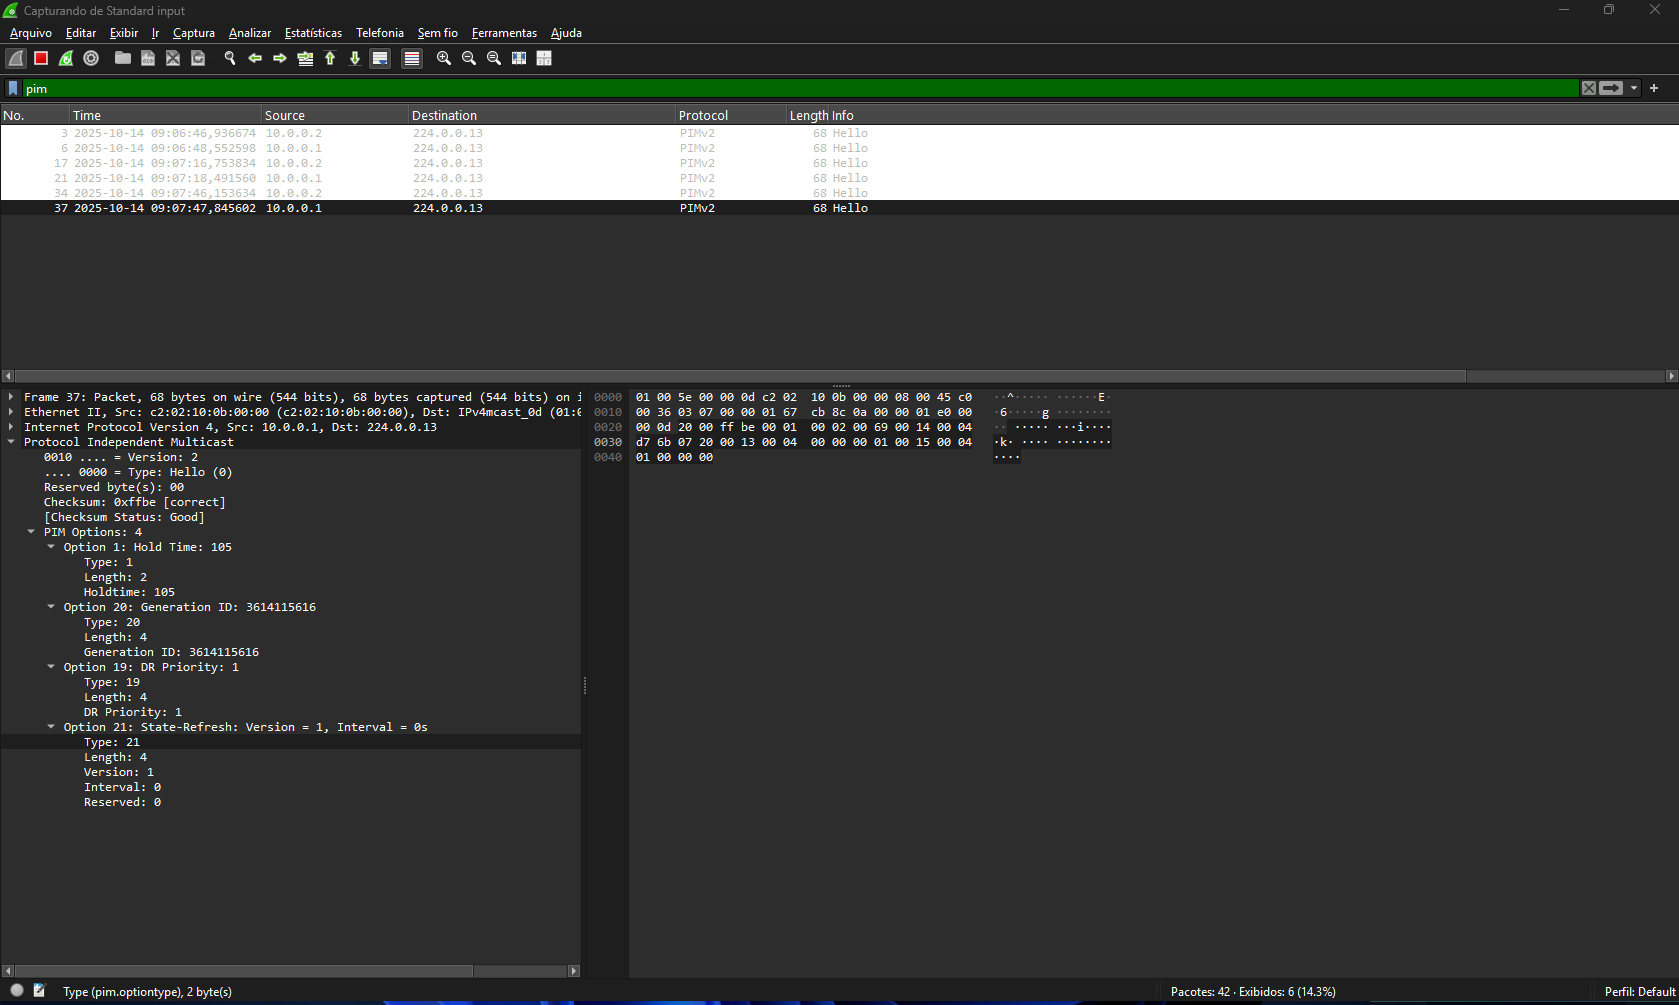
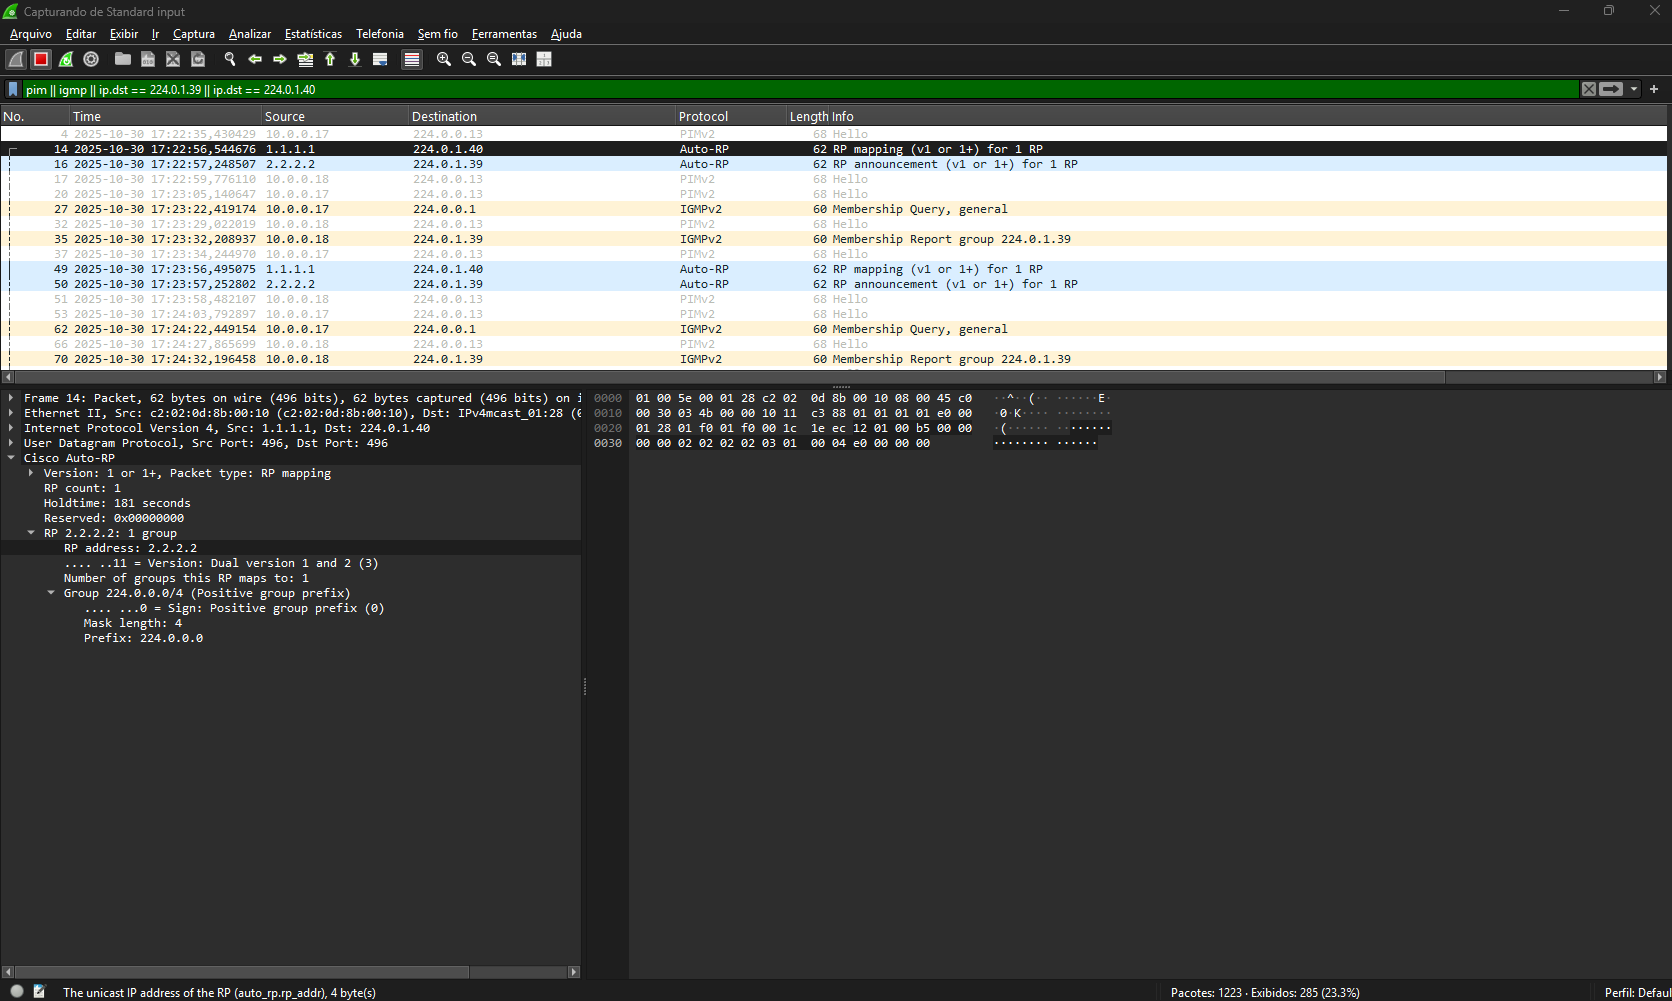
Alterado o README.md

Changed region(s): [[0.0, 0.0, 1.0, 0.8052], [0.0, 0.96, 1.0, 1.0]]

diff --git a/CCNP 350-401 ENCOR/03 - Infrastructure/01 - Multicast/06 - Exemplo Pratico - Pim Sparse Mode/README.md b/CCNP 350-401 ENCOR/03 - Infrastructure/01 - Multicast/06 - Exemplo Pratico - Pim Sparse Mode/README.md
@@ -24,6 +24,7 @@
   - [Ativando o protocolo PIM Sparse Mode](#ativando-o-protocolo-pim-sparse-mode)
     - [🧠 Entendendo a Eleição do Designated Router (DR) no PIM Sparse Mode](#-entendendo-a-eleição-do-designated-router-dr-no-pim-sparse-mode)
     - [💬 Entendendo as Mensagens PIM Hello](#-entendendo-as-mensagens-pim-hello)
+    - [⚙ Configurando o Candidate RP e o Mapping Agent (Auto-RP)](#-configurando-o-candidate-rp-e-o-mapping-agent-auto-rp)
 
 ## 05 - Exemplo Prático - PIM Sparse Mode  
 
@@ -512,4 +513,138 @@ Logo após, a eleição de DR é feita com base nos campos DR Priority e IP Addr
 | Troca de informações entre vizinhos PIM | Hello               | 224.0.0.13 | 1   | Manter vizinhança ativa     |
 | Eleição do DR                           | Hello               | 224.0.0.13 | 1   | Eleger roteador responsável |
 | Detecção de falha de vizinho            | Timeout (sem Hello) | —          | —   | Remover roteador inativo    |
+
+### ⚙ Configurando o Candidate RP e o Mapping Agent (Auto-RP)
+
+Agora que o PIM Sparse Mode está ativo em todas as interfaces, o domínio multicast já está pronto para eleger o Rendezvous Point (RP).  
+Como estamos utilizando o Auto-RP da Cisco, precisamos definir manualmente quem será o Candidate RP (C-RP) e quem atuará como Mapping Agent (MA).  
+
+🔹 Lembrando:  
+  
+- O Candidate RP anuncia-se ao grupo **224.0.1.40** dizendo: “posso ser o RP”.
+- O Mapping Agent escuta esses anúncios e envia o mapeamento final para todos os roteadores via grupo **224.0.1.39**.  
+
+🧩 1⃣ **Escolha dos equipamentos**  
+  
+Para este laboratório:  
+  
+| Função        | Roteador | Loopback usada | Justificativa técnica                                                             |
+|---------------|----------|----------------|-----------------------------------------------------------------------------------|
+| Candidate RP  | R02      | 2.2.2.2        | Está centralizado no domínio PIM, ideal para convergência                         |
+| Mapping Agent | R01      | 1.1.1.1        | Próximo à fonte multicast (Server), reduz latência para distribuição dos anúncios |  
+
+Assim, os roteadores R01 e R02 passam a desempenhar papéis complementares no processo de descoberta do RP.  
+
+🎯 **Sobre as Interfaces Loopback**  
+  
+No PIM Sparse Mode, a loopback pode exercer dois papéis distintos:
+
+- Apenas identificação lógica do roteador — usada como Router-ID ou origem de sessões OSPF/PIM.
+- Endereço lógico de RP (Rendezvous Point) — usada como ponto central da árvore multicast.
+
+👉 **Só o segundo caso exige que o PIM esteja ativo na loopback.**
+
+🧩 **Regra prática (Cisco e CCNP)**
+
+| Função da Loopback                                         | Precisa ativar PIM? | Motivo                                                                                             |
+|------------------------------------------------------------|---------------------|----------------------------------------------------------------------------------------------------|
+| Loopback usada como RP (Candidate RP)                      | ✅ Sim       | O RP precisa participar ativamente do domínio PIM para enviar/receber mensagens Register, Join e Auto-RP  |
+| Loopback usada como Mapping Agent   | ✅ Sim (recomendado)               | Embora o MA só envie anúncios Auto-RP, a interface é usada como origem das mensagens PIM (para 224.0.1.39) |
+| Loopback usada apenas como Router-ID (OSPF, identificação) | ❌ Não              | Ela não participa do encaminhamento multicast nem troca mensagens PIM.                             |
+| Loopback em roteadores comuns (não-RP, não-MA)             | ❌ Não              | Não há função multicast direta associada a ela.                                                   |  
+
+💬 **Em resumo**  
+
+- Ative o PIM-SM nas loopbacks **apenas do Candidate RP e do Mapping Agent**.
+- As demais loopbacks podem ficar sem PIM, já que não fazem parte do processo de descoberta nem da árvore multicast.
+- Isso torna o ambiente mais limpo e evita sobrecarga desnecessária no plano de controle.  
+  
+🧰 2⃣ **Comandos de configuração**  
+  
+➡ No R02 (Candidate RP):  
+
+```ios
+R02(config)#ip pim send-rp-announce loopback0 scope 16 group-list 1
+R02(config)#access-list 1 permit 224.0.0.0 15.255.255.255
+```
+
+🔎 **Explicação:**
+  
+- **send-rp-announce**: indica que o roteador R02 será Candidate RP.
+- **loopback0**: define o endereço 2.2.2.2 como IP de identificação do RP.
+- **scope 16**: limita o alcance dos anúncios ao domínio local PIM.
+- **group-list 1**: especifica o intervalo de grupos multicast para os quais o RP é válido (aqui, todo o range padrão).  
+
+➡ No R01 (Mapping Agent):  
+
+```ios
+R01(config)#int lo0
+R01(config-if)#ip pim sparse-mode
+R01(config-if)#
+*Mar  1 00:18:25.859: %PIM-5-DRCHG: DR change from neighbor 0.0.0.0 to 1.1.1.1 on interface Loopback0
+R01(config-if)#exit
+R01(config)#ip pim send-rp-discovery loopback 0 scope 16
+R01(config)#
+```
+
+🔎 **Explicação:**
+
+- **send-rp-discovery**: indica que R01 atuará como Mapping Agent (MA).
+- Ele escutará os anúncios dos **C-RPs (via 224.0.1.40) e redistribuirá os mapeamentos (via 224.0.1.39)**.  
+
+3⃣ **Captura e observação via Wireshark**  
+
+🧩 **Contexto da captura**  
+
+Como não temos como realizar capturas de pacotes em interfaces loopback, vou escolher utilizar qualquer uma das interfaces para verificarmos o comportamento dos pacotes.  
+
+**Entendendo o que você quer capturar**  
+  
+Há três tipos principais de mensagens que vão aparecer entre R01 e R02 logo após a configuração:  
+
+| Tipo      | Protocolo        | Propósito                  | Observação                                 |                             |
+|-----------|------------------|----------------------------|--------------------------------------------|-----------------------------|
+| PIM Hello | PIMv2 (Type 0)   | Descoberta e eleição de DR                                              | TTL = 1, destino 224.0.0.13 |
+| Auto-RP   | Announcement     | PIMv2 (Type 13) - Candidate RP se anuncia (R02 → 224.0.1.40)            | Proprietário Cisco          |
+| Auto-RP   | Discovery        | PIMv2 (Type 13) - Mapping Agent divulga o mapeamento (R01 → 224.0.1.39) | Proprietário Cisco          | 
+
+Para capturar tudo que interessa agora — Hellos, Auto-RP, e IGMP futuramente — use este filtro único e combinado:
+
+```whiresahrk
+pim || igmp || ip.dst == 224.0.1.39 || ip.dst == 224.0.1.40
+````
+
+![Whireshark](Imagens/04.png)  
+
+Como podemos observar, temos as mensagens de Auto-RP comprovando o funcionamento do Candidate RP e do Mapping Agent.  
+  
+Mas para validar, vamos entrar em R01 e R02 e digitar o comando **show ip pim rp mapping**.  
+  
+**R01**  
+
+```ios
+R01#show ip pim rp mapping
+PIM Group-to-RP Mappings
+This system is an RP-mapping agent (Loopback0)
+
+Group(s) 224.0.0.0/4
+  RP 2.2.2.2 (?), v2v1
+    Info source: 2.2.2.2 (?), elected via Auto-RP
+         Uptime: 00:09:18, expires: 00:02:39
+R01#
+```
+
+**R02**  
+
+```ios
+R02#show ip pim rp mapping
+PIM Group-to-RP Mappings
+This system is an RP (Auto-RP)
+
+Group(s) 224.0.0.0/4
+  RP 2.2.2.2 (?), v2v1
+    Info source: 1.1.1.1 (?), elected via Auto-RP
+         Uptime: 00:46:15, expires: 00:02:21
+R02#
+```
 
